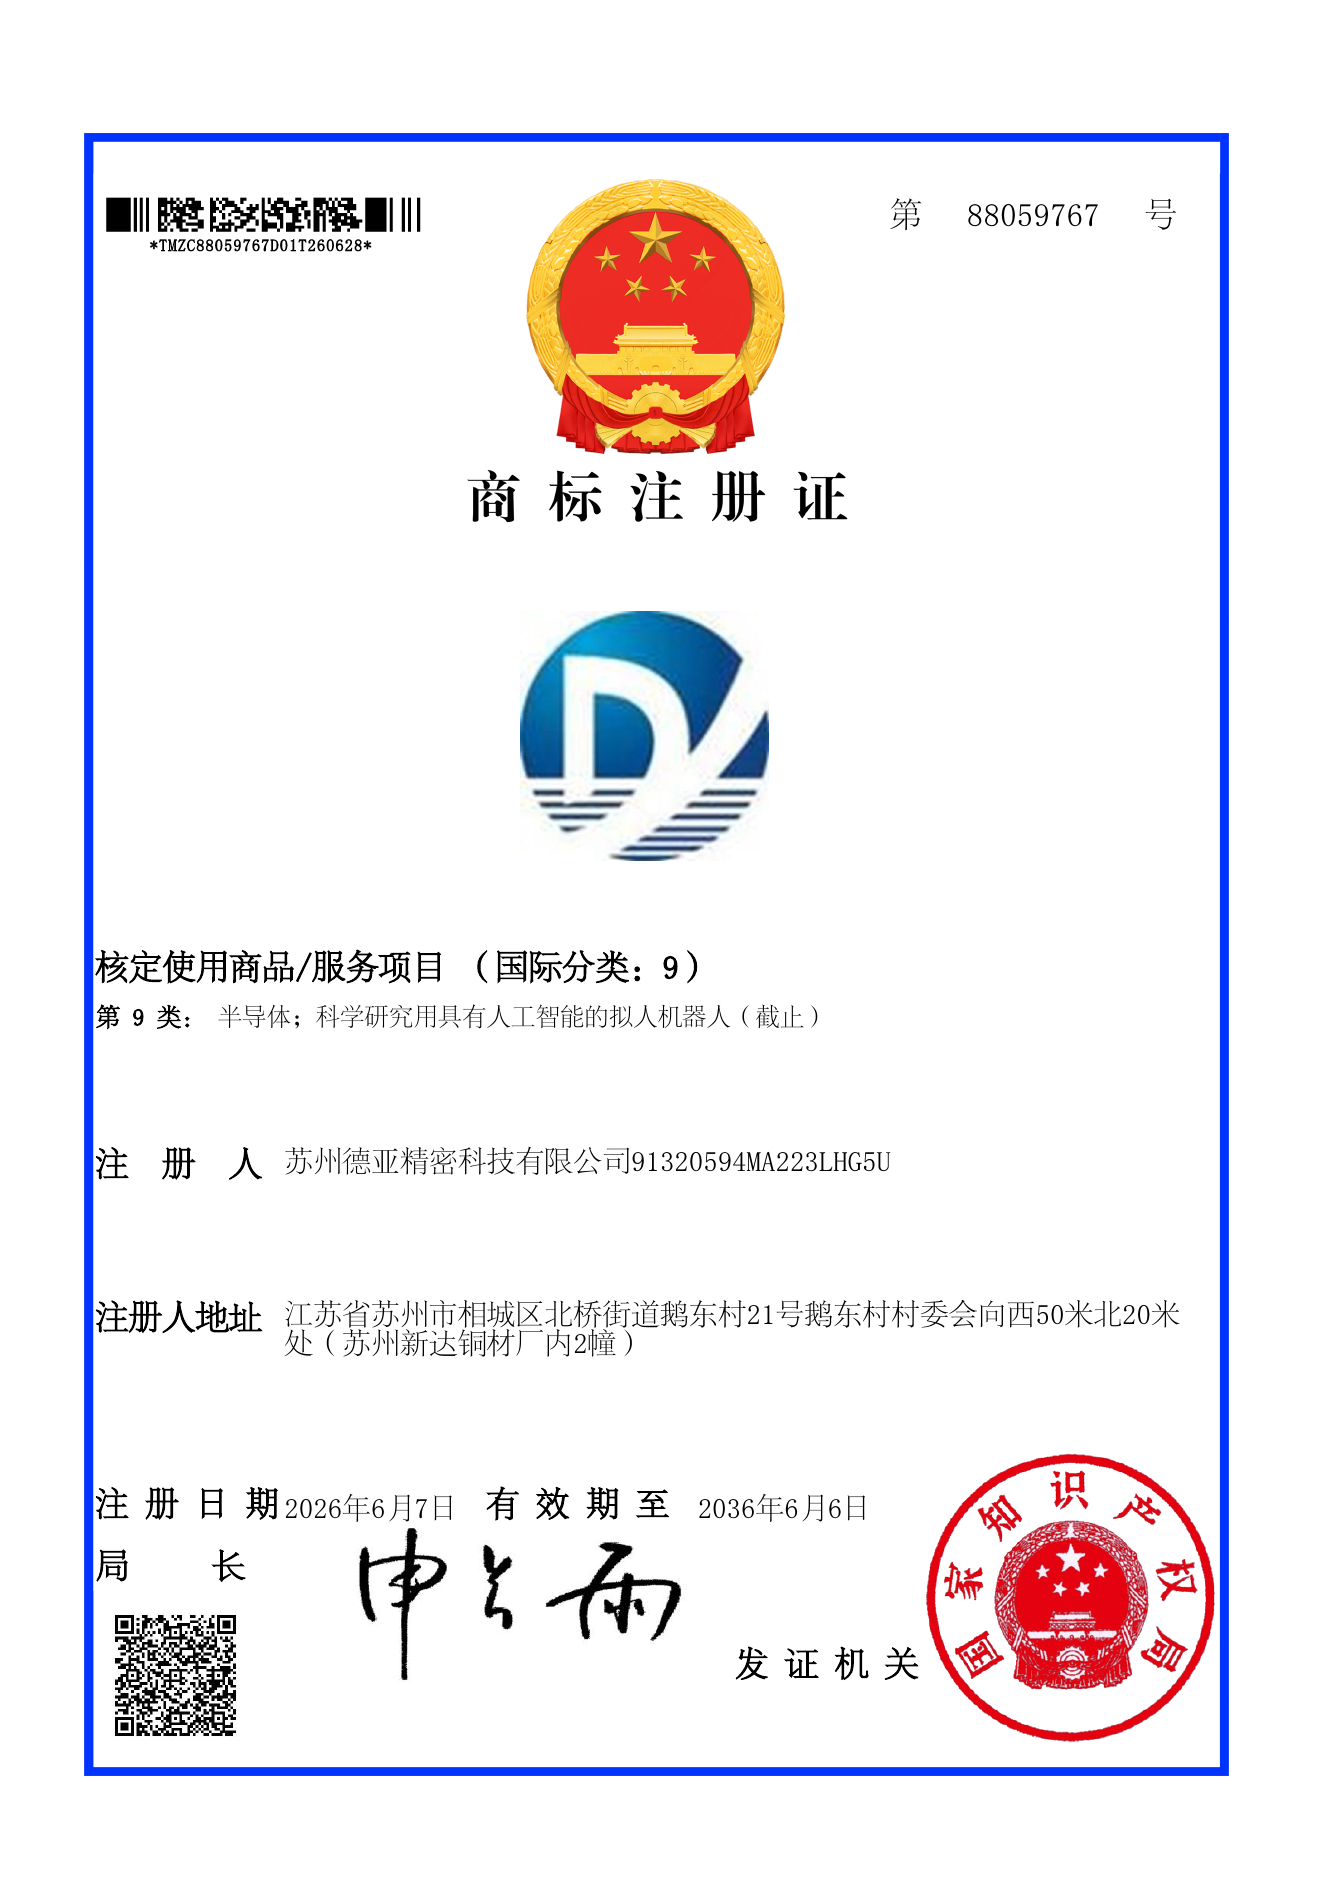
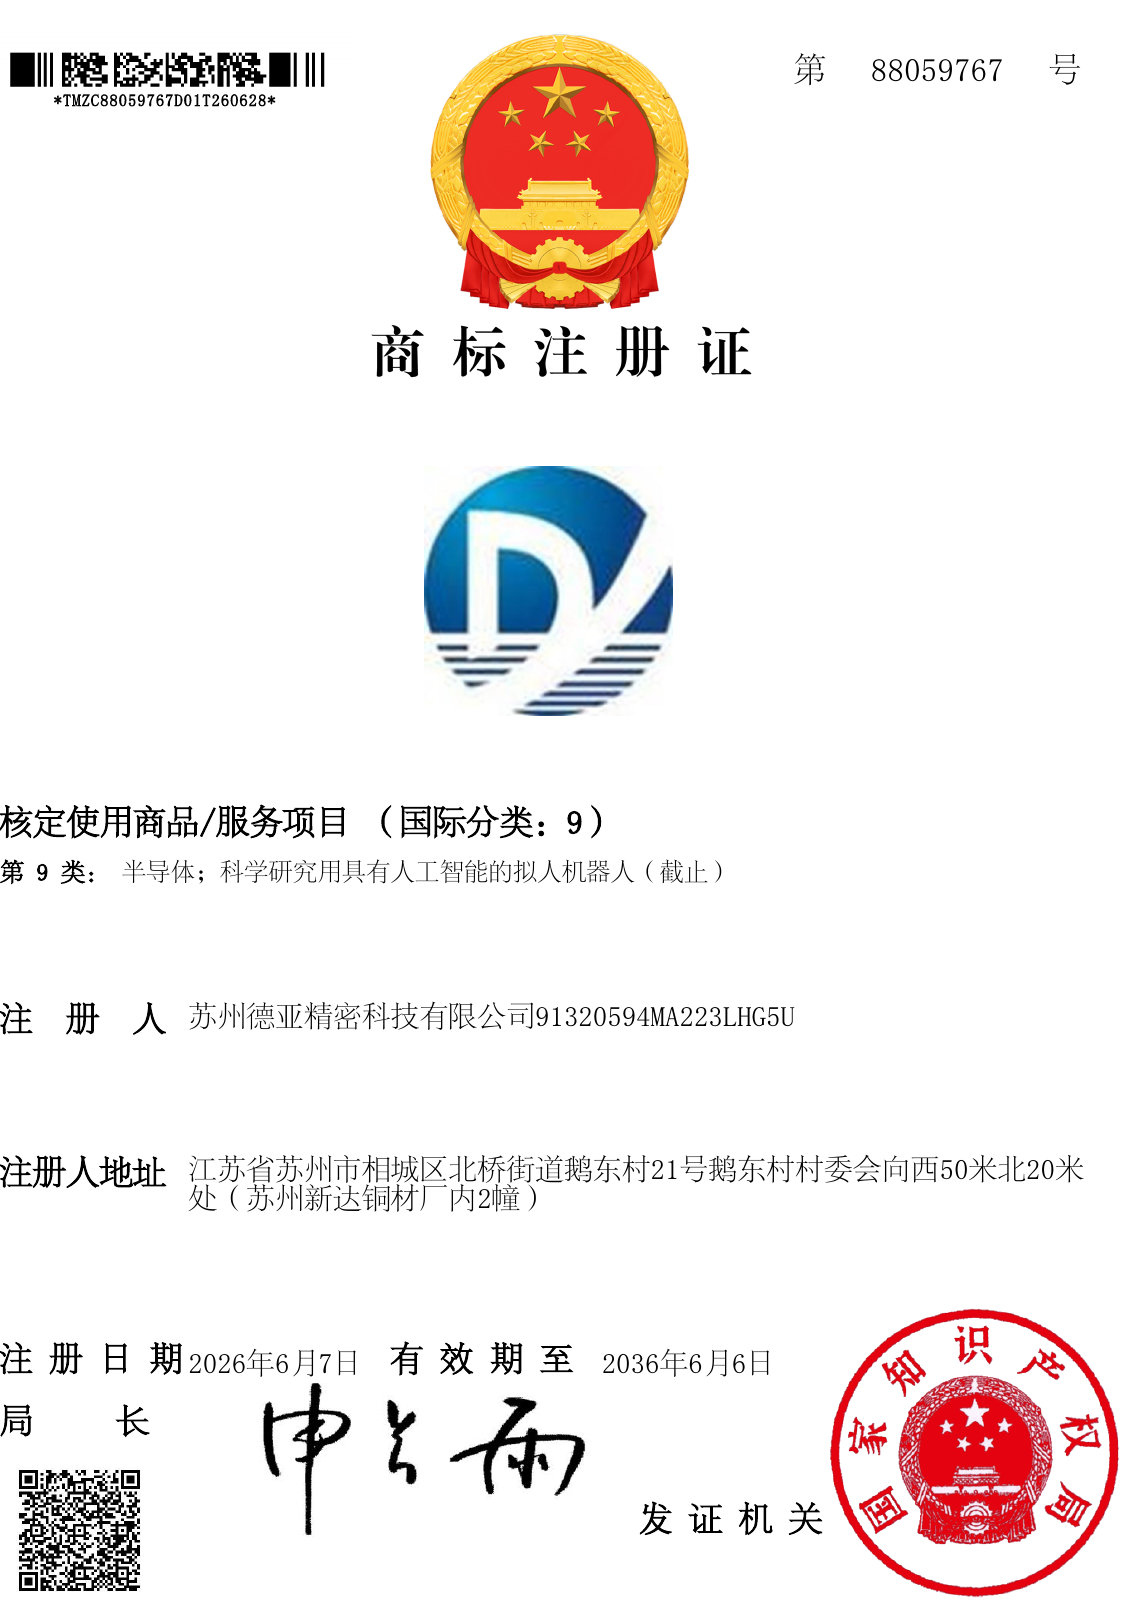
fix: remove trademark certificate border

diff --git a/components/site/certificate-rail.tsx b/components/site/certificate-rail.tsx
@@ -84,11 +84,7 @@ export function CertificateRail({ certificates }: { certificates: Certificate[] 
                       alt={certificate.alt}
                       fill
                       sizes="(min-width: 1024px) 24vw, 72vw"
-                      className={
-                        certificate.id === 'trademark-88059767'
-                          ? 'scale-[1.17] object-contain'
-                          : 'object-contain p-2'
-                      }
+                      className="object-contain p-2"
                     />
                     <span className="absolute right-2 top-2 flex size-8 items-center justify-center bg-navy text-white opacity-90 transition-opacity group-hover:opacity-100">
                       <Maximize2 aria-hidden="true" className="size-4" />
@@ -108,11 +104,7 @@ export function CertificateRail({ certificates }: { certificates: Certificate[] 
                       alt={certificate.alt}
                       fill
                       sizes="(min-width: 768px) 34rem, 90vw"
-                      className={
-                        certificate.id === 'trademark-88059767'
-                          ? 'scale-[1.17] object-contain'
-                          : 'object-contain'
-                      }
+                      className="object-contain"
                     />
                   </div>
                 </DialogContent>
